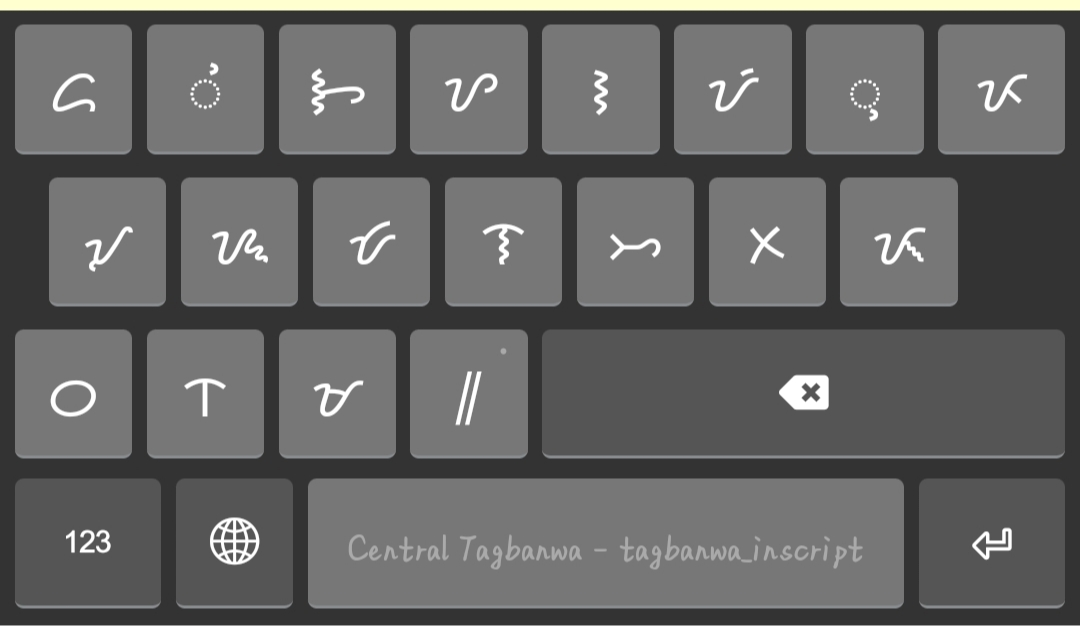
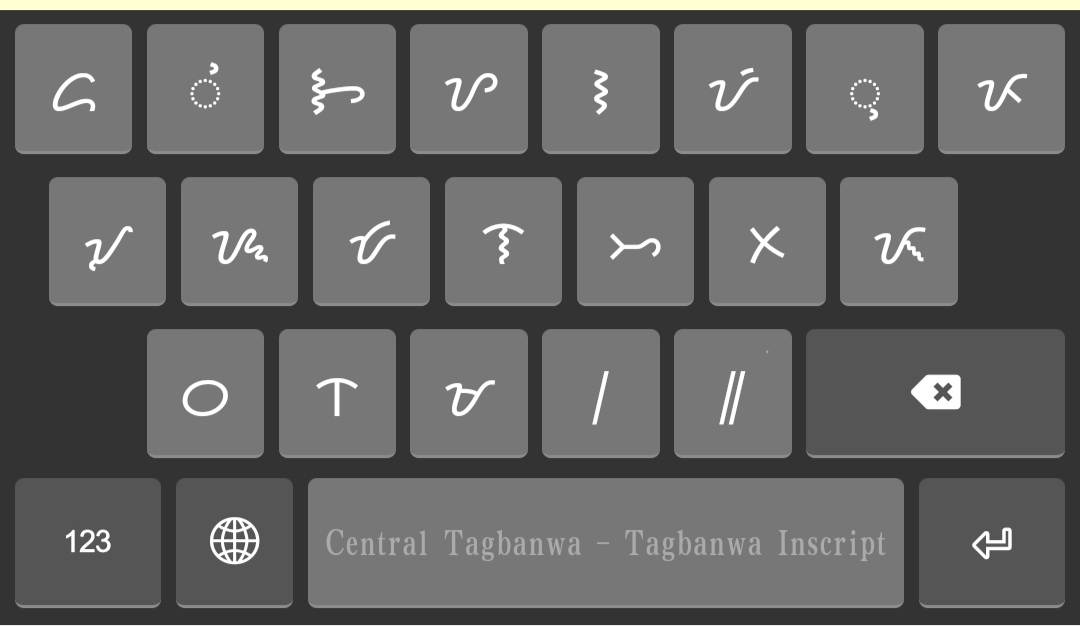
[tagbanwa_inscript] First update

diff --git a/release/t/tagbanwa_inscript/source/welcome.htm b/release/t/tagbanwa_inscript/source/welcome.htm
@@ -6,8 +6,8 @@
   <title>Start Using tagbanwa_inscript</title>
   <style type="text/css">
     p { font: 10pt Tahoma; }
-    h1 { font: bold 16pt Tahoma; color: #4444cc; margin-bottom: 2px }
-    h2 { font: bold 12pt Tahoma; color: #4444cc; }
+    h1 { font: bold 16pt Tahoma; color: #061d75; margin-bottom: 2px }
+    h2 { font: bold 12pt Tahoma; color: #061d75; }
   </style>
 </head>
 <body>
@@ -15,7 +15,7 @@
 <h1>Start Using tagbanwa_inscript</h1>
 
 <p>
-    This keyboard is designed for Central Tagbanwa language, using Tagbanwa script with an Inscript layout.
+    This keyboard is designed for the Central Tagbanwa language, using the Tagbanwa script with an Inscript layout.
 </p>
 
 <h1>Keyboard Layout</h1>

diff --git a/release/t/tagbanwa_inscript/source/readme.htm b/release/t/tagbanwa_inscript/source/readme.htm
@@ -15,7 +15,7 @@
 <h1>tagbanwa_inscript</h1>
 
 <p>
-    This keyboard is designed for Central Tagbanwa language, using Tagbanwa script with an Inscript layout.
+    This keyboard is designed for the Central Tagbanwa language, using the Tagbanwa script with an Inscript layout.
 </p>
 
 <p>© Joshua Wong</p>

diff --git a/release/t/tagbanwa_inscript/README.md b/release/t/tagbanwa_inscript/README.md
@@ -5,7 +5,7 @@ Version 1.0
 
 Description
 -----------
-This keyboard is designed for Central Tagbanwa language, using Tagbanwa script with an Inscript layout.
+This keyboard is designed for the Central Tagbanwa language, using the Tagbanwa script with an Inscript layout.
 
 Links
 -----

diff --git a/release/t/tagbanwa_inscript/HISTORY.md b/release/t/tagbanwa_inscript/HISTORY.md
@@ -4,3 +4,8 @@ tagbanwa_inscript Change History
 1.0 (2022-09-01)
 ----------------
 * Created by Joshua Wong
+
+1.0.1 (2022-10-13)
+Update:
+1. Changed the phone keyboard layout,
+2. Fixed the desktop keyboard layout, now it will not produce Latin letters.
